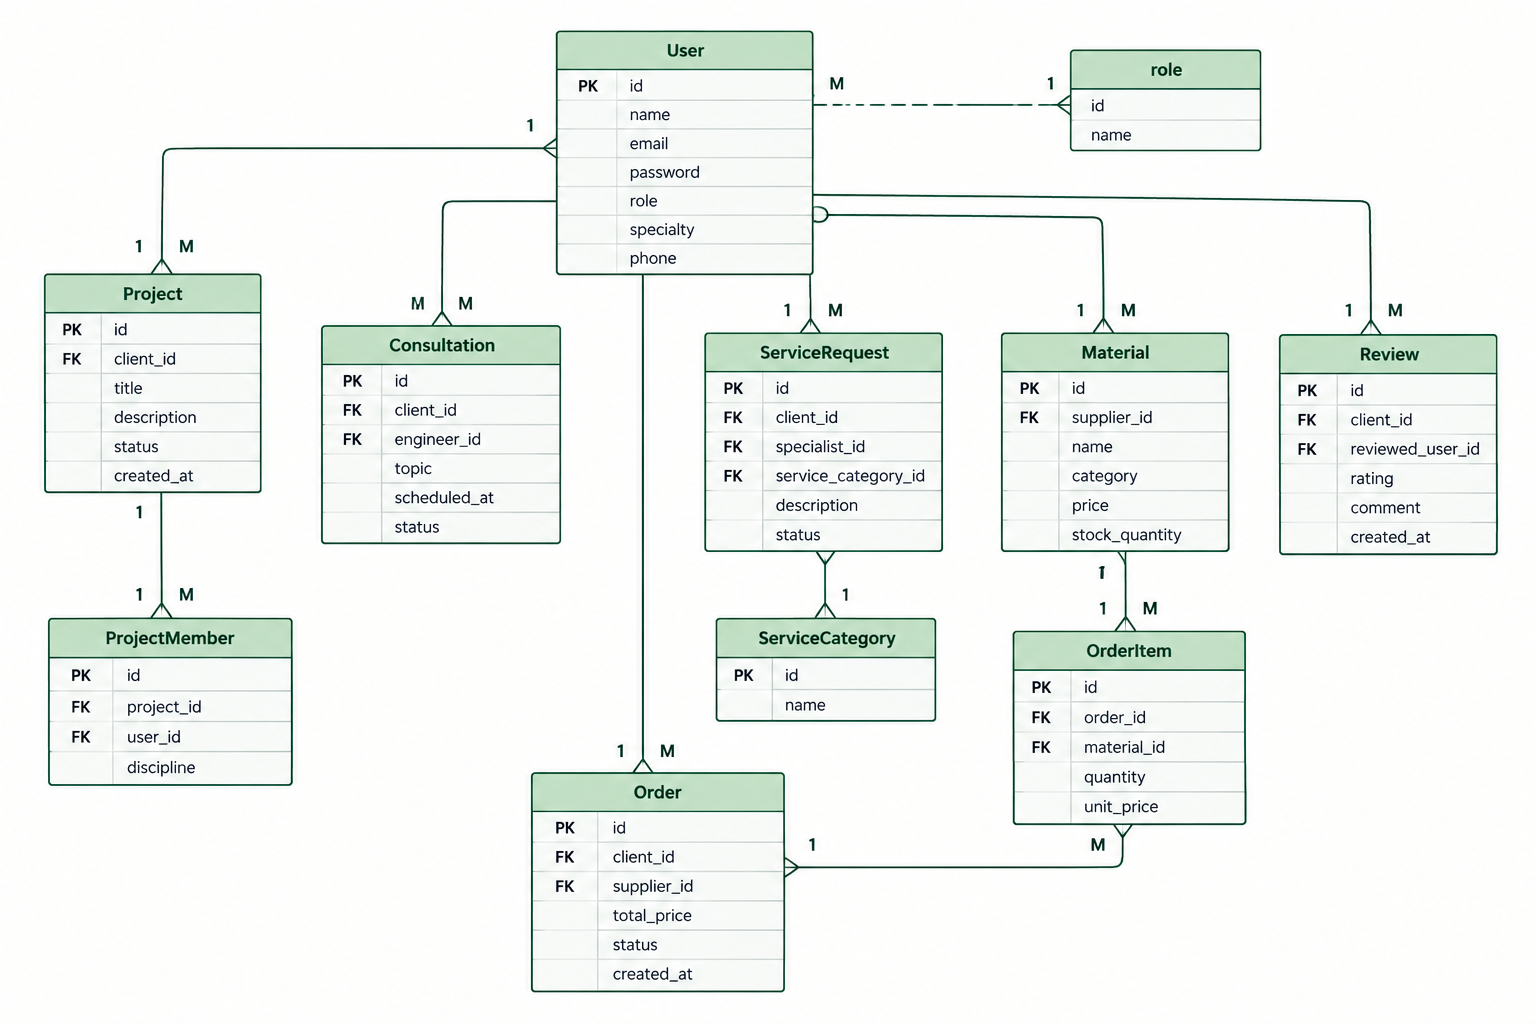
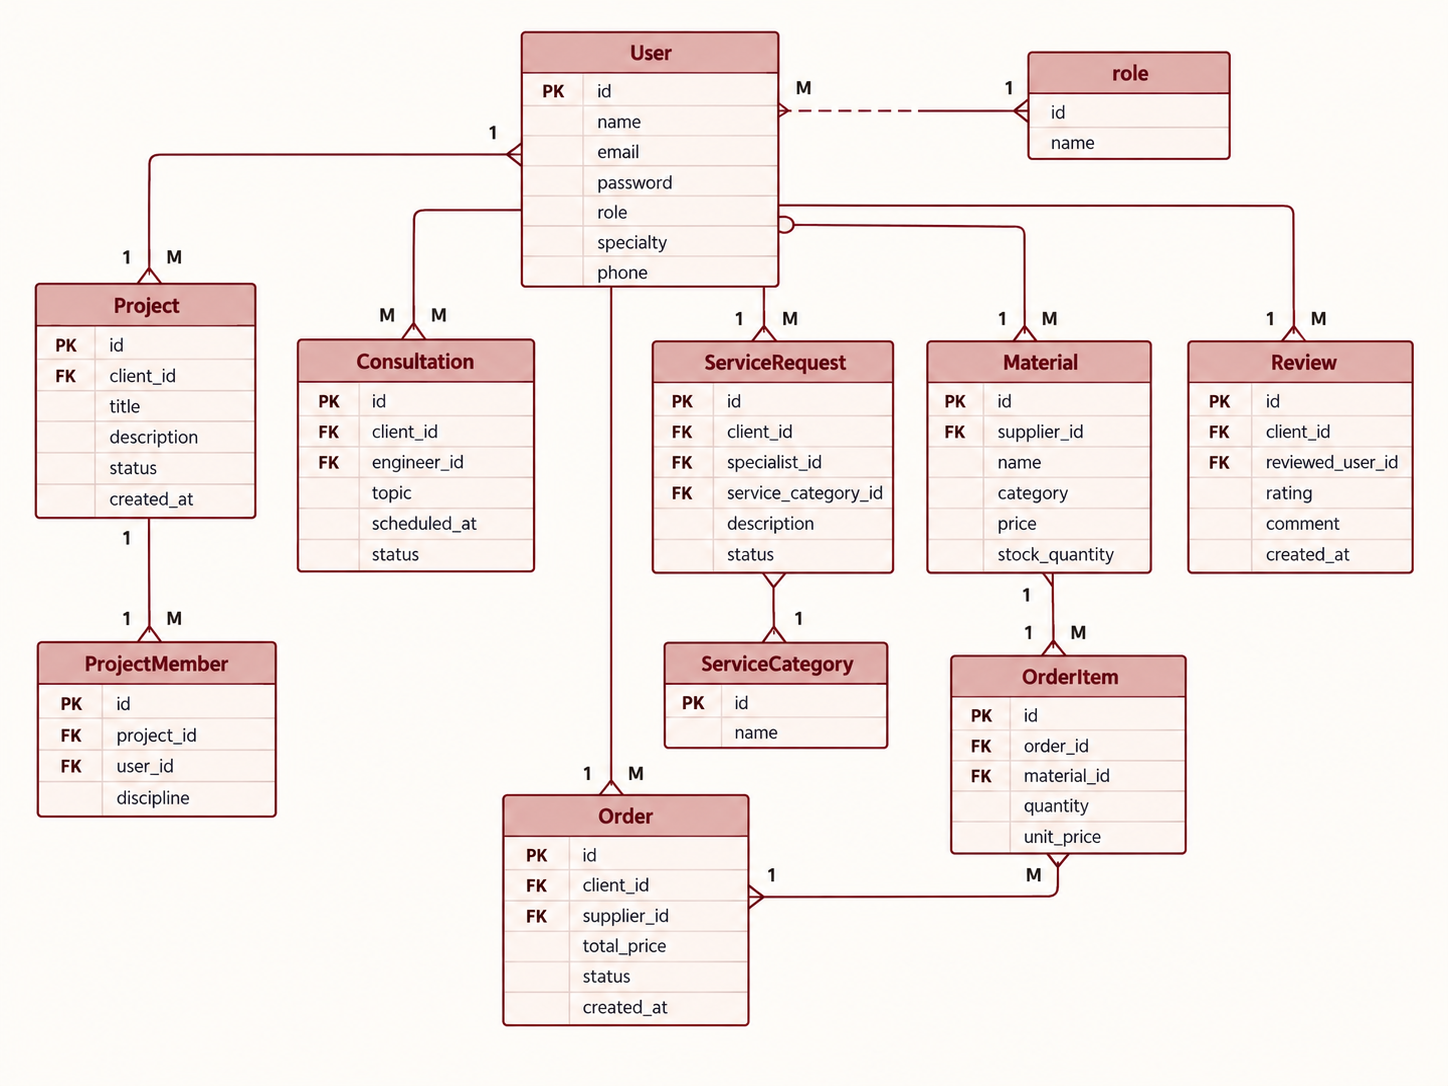
Updated ReadMe

Changed region(s): [[0.0, 0.0312, 0.9945, 0.9688], [0.6526, 0.0312, 0.8702, 0.1562]]

diff --git a/README.md b/README.md
@@ -4,17 +4,21 @@
 
 BUNYAN is an engineering and property services platform that brings clients, engineers, specialists, and building-material suppliers together in one place.
 
-A client can use the platform to start a full engineering project involving areas such as architecture, civil engineering, electrical/MEP, and interior design. They can also request a consultation with an engineer, find a specialist for a smaller job, browse building materials, place orders, and follow the progress of their requests.
+A client can use the platform to start a full engineering project, request a consultation with an engineer, find a specialist for a smaller job, browse building materials, place orders, and follow the progress of their requests.
 
-The aim of BUNYAN is to make the process of building, renovating, or finding the right service easier by having the main services in one platform.
+BUNYAN also provides different dashboards and permissions for clients, engineers, specialists, suppliers, and administrators.
+
+The aim of BUNYAN is to make the process of building, renovating, and finding engineering or property services easier by bringing the main services together in one platform.
 
 ---
 
 ## Back-End Application
 
-The FastAPI back-end and API endpoints can be viewed here:
+The FastAPI back-end and API can be viewed here:
 
-[BUNYAN Back-End](https://github.com/Mrymhussain/bunyan-back-end)
+[BUNYAN Back-End Repository](https://github.com/Mrymhussain/bunyan-back-end)
+
+[Deployed Back-End](https://bunyan-back-end.onrender.com)
 
 ---
 
@@ -22,7 +26,7 @@ The FastAPI back-end and API endpoints can be viewed here:
 
 ### Deployed App
 
-Deployment link will be added once the project is deployed.
+[BUNYAN Live Application](https://bunyan-front-end.onrender.com)
 
 ### Wireframes
 
@@ -48,11 +52,12 @@ The ERD shows the main entities in the system and how they are related.
 
 ![BUNYAN ERD](./assets/bunyan-erd.png)
 
-The main entities planned for the system are:
+The main entities in the system are:
 
 - User
 - Project
 - ProjectMember
+- ProjectUpdate
 - Consultation
 - ServiceRequest
 - ServiceCategory
@@ -65,7 +70,7 @@ The main entities planned for the system are:
 
 ## Component Hierarchy
 
-The component hierarchy shows how the front-end application is planned and how the main pages and components are connected.
+The component hierarchy shows how the front-end application is organized and how the main pages and components are connected.
 
 ![BUNYAN Component Hierarchy](./assets/component-hierarchy.png)
 
@@ -79,55 +84,92 @@ The component hierarchy shows how the front-end application is planned and how t
 - As a user, I want to sign in so I can access my account.
 - As a user, I want to sign out when I finish using the application.
 - As a user, I want to view and update my profile.
+- As a user, I want to see a dashboard based on my role.
 
 ### Projects
 
-- As a client, I want to start a new project.
-- As a client, I want to enter the details of my project.
-- As a client, I want to choose the engineering services needed for my project.
+- As a client, I want to create a project request with the details of my project.
 - As a client, I want to view all of my projects.
-- As a client, I want to view the status and progress of a project.
-- As a client, I want to edit my own project.
-- As a client, I want to see the professionals working on my project.
+- As a client, I want to view the status and progress of my project.
+- As a client, I want to edit the request details of my own project.
+- As a client, I want to see the engineers assigned to my project.
+- As an admin, I want to view all projects.
+- As an admin, I want to assign engineers to a project.
+- As an admin, I want to remove engineers from a project.
+- As an engineer, I want to view the projects assigned to me.
+- As an engineer, I want to update the progress and status of an assigned project.
+
+### Project Room
+
+- As a client, I want to view project updates from the engineering team.
+- As a client, I want to post updates inside my project.
+- As an assigned engineer, I want to post updates inside the project room.
+- As an assigned engineer, I want to approve my own engineering discipline.
+- As an engineer, I want to add an approval note for my discipline.
+- As an admin, I want to monitor the project room and engineering team.
+- As a project member, I want to view the shared project meeting details.
+- As an engineer or admin, I want to update the project meeting information and meeting link.
 
 ### Professionals
 
 - As a client, I want to browse engineers and specialists.
-- As a client, I want to search for a professional by specialty.
+- As a client, I want to view professionals based on their specialty.
 - As a client, I want to view a professional's profile before requesting a service.
 - As a client, I want to view ratings and reviews for professionals.
 
 ### Consultations
 
 - As a client, I want to request a consultation with an engineer.
-- As a client, I want to choose a preferred date and time for the consultation.
+- As a client, I want to choose the consultation details and preferred time.
+- As a client, I want to view my consultation requests.
 - As a client, I want to view the status of my consultation.
-- As an engineer, I want to view consultation requests sent to me.
+- As an engineer, I want to view consultation requests assigned to me.
 - As an engineer, I want to update the status of a consultation.
+- As an admin, I want to view consultation requests across the platform.
 
 ### Services
 
-- As a client, I want to browse services for smaller jobs.
-- As a client, I want to find a specialist for a specific service.
-- As a client, I want to submit a service request.
+- As a client, I want to browse available service categories.
+- As a client, I want to find a specialist for a smaller property job.
+- As a client, I want to submit a service request to a specialist.
+- As a client, I want to view and update the details of my service request.
 - As a client, I want to follow the status of my service request.
-- As a specialist, I want to view requests assigned to me.
-- As a specialist, I want to update the status of a request.
+- As a specialist, I want to view service requests assigned to me.
+- As a specialist, I want to accept and update the status of assigned requests.
+- As an admin, I want to view service requests across the platform.
 
-### Materials and Orders
+### Materials
 
 - As a client, I want to browse building materials.
-- As a client, I want to view the price and details of a material.
-- As a client, I want to place an order for materials.
-- As a client, I want to follow the status of my order.
-- As a supplier, I want to add and manage materials.
-- As a supplier, I want to view and update orders.
+- As a client, I want to view the price, stock, and details of a material.
+- As a supplier, I want to add materials to the marketplace.
+- As a supplier, I want to edit my own materials.
+- As a supplier, I want to delete my own materials.
+- As a supplier, I want to view the materials I supply.
+
+### Orders
+
+- As a client, I want to place an order for building materials.
+- As a client, I want to view my orders.
+- As a client, I want to view the status of an order.
+- As a client, I want to cancel a pending order.
+- As a supplier, I want to view orders for my materials.
+- As a supplier, I want to update an order from pending through its processing stages.
+- As an admin, I want to view orders across the platform.
 
 ### Reviews
 
-- As a client, I want to leave a rating and review.
-- As a client, I want to edit my own review.
-- As a client, I want to delete my own review.
+- As a client, I want to leave a rating and review for a professional.
+- As an engineer or specialist, I want to view feedback received from clients.
+- As an admin, I want to view reviews across the platform.
+- As an admin, I want to remove a review when necessary.
+
+### Admin
+
+- As an admin, I want to view activity across the main parts of the platform.
+- As an admin, I want to manage project teams.
+- As an admin, I want to monitor projects, consultations, service requests, materials, orders, and reviews.
+- As an admin, I want to access an admin dashboard that gives me an overview of the system.
 
 ---
 
@@ -143,14 +185,14 @@ The component hierarchy shows how the front-end application is planned and how t
 | `/profile/edit` | Edit Profile |
 | `/projects` | Projects |
 | `/projects/new` | Create Project |
-| `/projects/:projectId` | Project Details |
+| `/projects/:projectId` | Project Details / Project Room |
 | `/projects/:projectId/edit` | Edit Project |
-| `/professionals` | Engineers and Specialists |
+| `/professionals` | Professionals |
 | `/engineers/:engineerId` | Engineer Profile |
 | `/engineers/:engineerId/consultation` | Request Consultation |
 | `/consultations` | Consultations |
 | `/consultations/:consultationId` | Consultation Details |
-| `/services` | Services and Materials |
+| `/services` | Services |
 | `/specialists/:specialistId` | Specialist Profile |
 | `/specialists/:specialistId/request` | Request Service |
 | `/service-requests` | Service Requests |
@@ -167,18 +209,23 @@ The component hierarchy shows how the front-end application is planned and how t
 
 ## Wireframes
 
-The main screens planned for BUNYAN are:
+The main screens planned for BUNYAN included:
 
 1. Home
 2. Sign Up
 3. Sign In
-4. What Do You Need?
-5. Dashboard
+4. Dashboard
+5. Profile
 6. Projects
 7. Create / Edit Project
-8. Project Details
+8. Project Details / Project Room
 9. Professionals
-10. Services & Materials
+10. Consultations
+11. Services
+12. Service Requests
+13. Materials
+14. Orders
+15. Reviews
 
 The wireframes were created using Excalidraw.
 
@@ -186,17 +233,40 @@ The wireframes were created using Excalidraw.
 
 ---
 
-## Tools Used
+## Technologies Used
 
-The tools used so far for planning and setting up the project are:
-
+- JavaScript
+- React
+- Vite
+- HTML
+- CSS
+- Python
+- FastAPI
+- PostgreSQL
+- SQLAlchemy
+- Pydantic
+- JWT Authentication
+- Alembic
+- REST API
 - Git
 - GitHub
-- Visual Studio Code
 - Excalidraw
+- Render
+- Neon
+
+---
+
+## Next Steps
+
+Future improvements for BUNYAN could include:
+
+- Real-time notifications for project and request updates.
+- In-app messaging between clients and professionals.
+- File and document sharing inside the Project Room.
+- Online payment support for services and material orders.
+- More advanced search and filtering for professionals and materials.
+- Email notifications for consultations, meetings, and order updates.
 
 ---
 
 ## Attributions
-
-External resources that require attribution will be added here during development.
